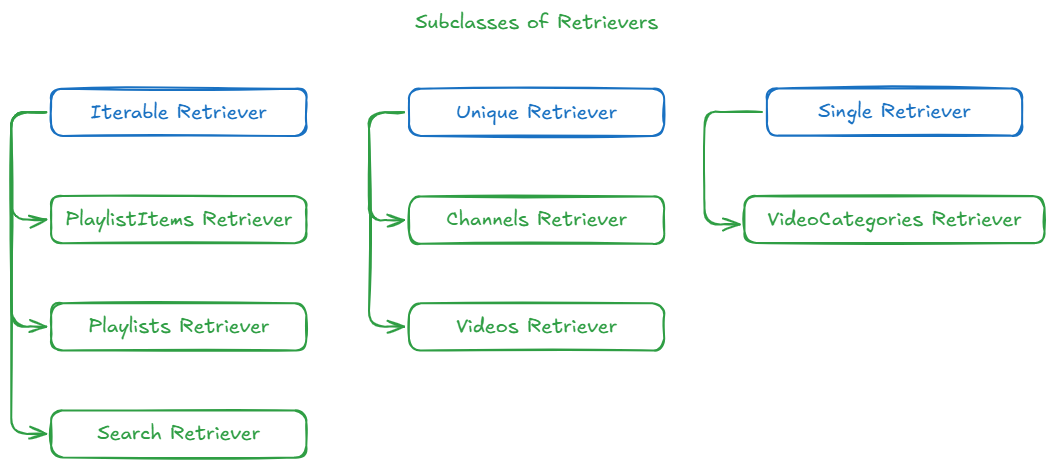
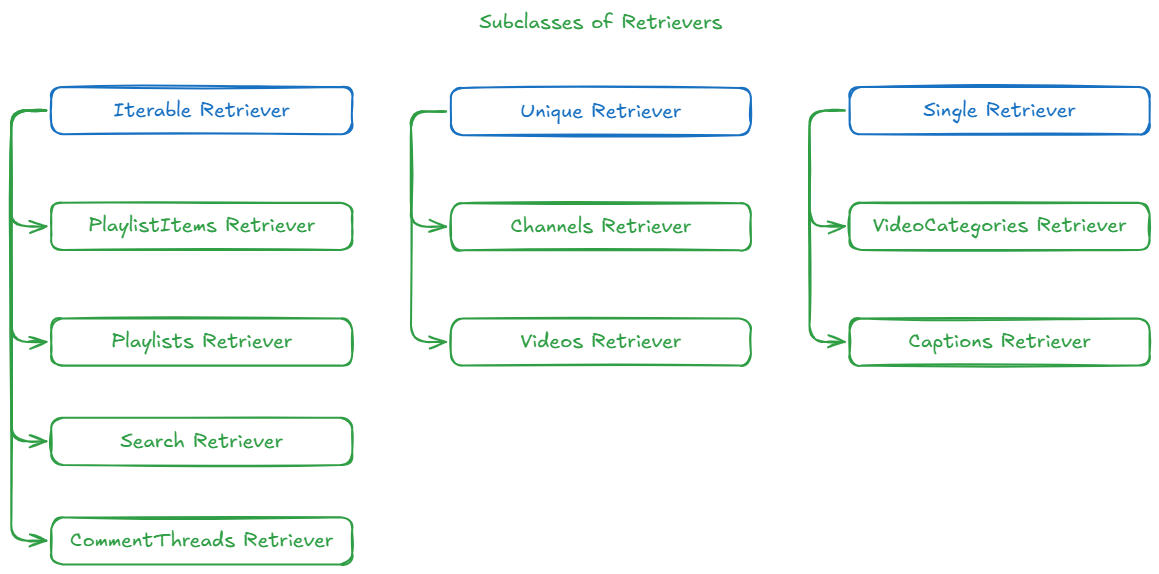
commentThreads endpoint added

diff --git a/youtube_data_api/container/comment_threads/main.py b/youtube_data_api/container/comment_threads/main.py
@@ -1,0 +1,122 @@
+from dataclasses import dataclass, asdict
+from copy import deepcopy
+
+from ..base import ItemThumbnail, BaseContainer
+
+
+@dataclass
+class AuthorChannelId:
+    value: str = None
+
+
+@dataclass
+class CommentSnippet:
+    authorDisplayName: str = None
+    authorProfileImageUrl: str = None
+    authorChannelUrl: str = None
+    authorChannelId: AuthorChannelId = None
+    channelId: str = None
+    videoId: str = None
+    textDisplay: str = None
+    textOriginal: str = None
+    parentId: str = None
+    canRate: bool = None
+    viewerRating: str = None
+    likeCount: int = None
+    moderationStatus: str = None
+    publishedAt: str = None
+    updatedAt: str = None
+
+
+@dataclass
+class CommentItem:
+    kind: str = "youtube#comment"
+    etag: str = None
+    id: str = None
+    snippet: CommentSnippet = None
+
+
+@dataclass
+class CommentThreadsSnippet:
+    channelId: str = None
+    videoId: str = None
+    topLevelComment: CommentItem = None
+    canReply: bool = None
+    totalReplyCount: int = None
+    isPublic: bool = None
+
+
+@dataclass
+class CommentReplies:
+    comments: list[CommentItem] = None
+
+
+@dataclass
+class CommentThreadsItem:
+    kind: str = "youtube#commentThread"
+    etag: str = None
+    id: str = None
+    snippet: CommentThreadsSnippet = None
+    replies: CommentReplies = None
+
+
+@dataclass
+class CommentThreadsContainer(BaseContainer):
+    def __init__(self, raw_items: list[dict]):
+        super().__init__(raw_items)
+        self.raw_items = deepcopy(raw_items)
+        self.items: list | list[CommentThreadsItem] = self._extract_item(self.raw_items)
+            
+    def _extract_item(self, raw_items) -> list | list[CommentThreadsItem]:
+        if len(raw_items) == 0:
+            return list()
+        
+        items = list()
+        for r in raw_items:
+            item = CommentThreadsItem()
+
+            item.etag = r['etag']
+            item.id = r['id']
+
+            item.snippet = self._extract_snippet(deepcopy(r["snippet"]))
+            item.replies = self._extract_replies(deepcopy(r.get("replies")))
+
+            items.append(item)
+
+        return items
+
+    def _extract_snippet(self, raw_snippet: dict) -> CommentThreadsSnippet:
+        top_level_comment_item: dict = raw_snippet.pop("topLevelComment")
+        thread_snippet = CommentThreadsSnippet(**raw_snippet)
+
+        top_level_comment = self._extract_comment(deepcopy(top_level_comment_item))
+
+        thread_snippet.topLevelComment = top_level_comment
+
+        return thread_snippet
+    
+    def _extract_replies(self, raw_replies: dict) -> CommentReplies:
+        if not raw_replies:
+            return None
+        
+        replies = CommentReplies()
+
+        reply_comments: list[CommentItem] = list()
+
+        for raw_comment in raw_replies["comments"]:
+            reply_comments.append(self._extract_comment(deepcopy(raw_comment)))
+
+        replies.comments = reply_comments
+
+        return replies
+
+    def _extract_comment(self, raw_comment: dict) -> CommentItem:
+        comment_snippet_item = raw_comment.pop("snippet")
+        comment = CommentItem(**raw_comment)
+
+        author_channel_id_item: dict = comment_snippet_item.pop("authorChannelId")
+        author_channel_id = AuthorChannelId(author_channel_id_item["value"])
+
+        comment.snippet = CommentSnippet(**comment_snippet_item, authorChannelId=author_channel_id)
+
+        return comment

diff --git a/youtube_data_api/shipper/comment_threads/main.py b/youtube_data_api/shipper/comment_threads/main.py
@@ -1,0 +1,66 @@
+from dataclasses import asdict
+from copy import deepcopy
+
+from youtube_data_api.container.comment_threads.main import CommentThreadsItem
+from ..base import BaseShipper
+
+
+class CommentThreadsShipper(BaseShipper):
+    def __init__(self):
+        super().__init__()
+        self.main_records = None    # comment_threads and replies are used to save data instead
+        self.comment_threads = list[dict] = list()
+        self.replies = dict[str, list] = dict()
+        self.output_folder = "backup/CommentThreadsShipper"
+    
+    def invoke(self, items: list[CommentThreadsItem], output_folder=None, backup=True) -> None:
+        """
+        run the shipper and obtain output
+        """
+        # return super().invoke(items=items, output_folder=output_folder, backup=backup)
+        for item in items:
+            self._extract_details(item)
+            
+        if backup:
+            self._handle_backup(self.comment_threads, suffix=" comment threads", output_folder=output_folder)
+            self._handle_backup(self.replies, suffix=" replies", output_folder=output_folder)
+    
+    def _extract_details(self, item: CommentThreadsItem):
+        record = dict()
+
+        record["kind"] = item.kind
+        record["etag"] = item.etag
+        record["id"] = item.id
+        
+        # 1. extract snippet
+        snippet_item = asdict(item.snippet)
+        top_level_comment_item = snippet_item.pop("topLevelComment")
+
+        record.update(snippet_item)
+
+        record.update(self._extract_comment(deepcopy(top_level_comment_item)))
+
+        self.comment_threads.append(record)
+
+        # 2. extract corresponding replies
+        replies = item.replies
+        if replies:
+            comment_replies = replies.comments
+            comment_replies_items = asdict(comment_replies)
+            # store comment replies of a parent comment id
+            self.replies[item.id] = self._extract_comment_replies(deepcopy(comment_replies_items))
+
+    @staticmethod
+    def _extract_comment(raw_comment_item: dict) -> dict:
+        comment_item = dict()
+
+        author_channel_id_item = raw_comment_item.pop("authorChannelId")
+        comment_item.update(raw_comment_item)
+
+        comment_item["authorChannelId"] = author_channel_id_item["value"]
+
+        return deepcopy(comment_item)
+    
+    def _extract_comment_replies(self, raw_comment_replies: list[dict]) -> list[dict]:
+        comment_replies = [self._extract_comment(rep) for rep in raw_comment_replies]
+        return deepcopy(comment_replies)

diff --git a/youtube_data_api/retriever/comment_threads/main.py b/youtube_data_api/retriever/comment_threads/main.py
@@ -1,0 +1,38 @@
+from ..base import PipeSettings, IterableRetriever
+from .params import CommentThreadsParams
+from .pipe import CommentThreadsPipe
+
+
+class CommentThreadsRetriever(IterableRetriever):
+    """
+    Retrieve comment threads of a specific video
+
+    Attributes
+    ----------
+    pipe_fn : any
+        API to obtain response.
+    pipe : CommentThreadsPipe
+        Pipe to process request by arguments.
+
+    Parameters
+    ----------
+    iterable : list of str
+        A list of video IDs.
+    developerKey : str
+        API key obtained from Google Dev Console.
+    settings : PipeSettings
+        Determines how many pages of response to be obtained.
+    """
+
+    def __init__(self, iterable: list[str], developerKey: str, settings: PipeSettings = PipeSettings()):
+        super().__init__(iterable=iterable, developerKey=developerKey, settings=settings)
+        # these parameters need to be overwritten
+        self.pipe_fn = self.client.commentThreads()
+        self.pipe = CommentThreadsPipe
+    
+    def _create_params(self, i):
+        return CommentThreadsParams(maxResults=100, videoId=i)
+    
+    def invoke(self, output_folder="backup/CommentThreadsRetriever", 
+           filename=None, backup=True) -> list[dict]:
+        return super().invoke(output_folder=output_folder, filename=filename, backup=backup)

diff --git a/youtube_data_api/retriever/base/main.py b/youtube_data_api/retriever/base/main.py
@@ -10,6 +10,10 @@ from .params import BaseParams
 
 
 class IterableRetriever:
+    """
+    - one-to-many retrieval; eg. one channelId to multiple playlists
+    - one API call per query parameter in iterative; eg. one channelId for one playlist API call
+    """
     def __init__(self, iterable: list[str], developerKey: str, settings=PipeSettings()):
         self.iterable = iterable
         self.client = build_client(developerKey)
@@ -61,6 +65,10 @@ class IterableRetriever:
     
 
 class UniqueRetriever:
+    """
+    - one-to-one retrieval; eg. one channelId to one channel details
+    - batch processing for maximizing API call efficiency
+    """
     def __init__(self, iterable: list[str], developerKey: str):
         self.iterable = iterable
         self.chunks = split_list(self.iterable, chunk_size=50)   # split to chunks containing multiple ids
@@ -110,6 +118,10 @@ class UniqueRetriever:
 
 
 class SingleRetriever:
+    """
+    - one-to-one retrieval where only one(group of) item(s) retrieved
+    - eg. one caption resource obtained for one videoId
+    """
     def __init__(self, params: BaseParams, developerKey: str):
         self.params = params
         self.client = build_client(developerKey)

diff --git a/youtube_data_api/foreman/comment_threads/main.py b/youtube_data_api/foreman/comment_threads/main.py
@@ -1,0 +1,21 @@
+from youtube_data_api.retriever import CommentThreadsRetriever
+from youtube_data_api.container import CommentThreadsContainer
+from youtube_data_api.shipper import CommentThreadsShipper
+
+from youtube_data_api.retriever.base import PipeSettings
+from youtube_data_api.foreman.base import IterableForeman
+
+
+class CommentThreadsForeman(IterableForeman):
+    """
+    Retrieve comment threads and replies given videoId
+    """
+    def __init__(self):
+        super().__init__()
+        self.retriever = CommentThreadsRetriever
+        self.container = CommentThreadsContainer
+        self.shipper = CommentThreadsShipper
+    
+    def invoke(self, iterable: list[str], developerKey: str, 
+               settings: PipeSettings = PipeSettings(), backup=True) -> CommentThreadsShipper:
+        return super().invoke(iterable=iterable, developerKey=developerKey, settings=settings, backup=backup)

diff --git a/youtube_data_api/retriever/comment_threads/pipe.py b/youtube_data_api/retriever/comment_threads/pipe.py
@@ -1,0 +1,22 @@
+from typing import TypeAlias, Literal
+from tqdm import tqdm
+import math
+
+from ..base import IterablePipe
+from .params import CommentThreadsParams
+
+RetrieveMethod: TypeAlias = Literal["head", "custom", "all"]
+    
+
+class CommentThreadsPipe(IterablePipe):
+    """
+    obtain list of comment threads given a videoId
+    """
+    def __init__(self, params: CommentThreadsParams, pipe_fn=None, 
+                 retrieval: RetrieveMethod = "head", n=10):
+        super().__init__(params=params, pipe_fn=pipe_fn, retrieval=retrieval, n=n)
+        self.hard_limit = 100    # this API allows up to 100 results per page
+        self.max_page = 5   # limitation for pipe to avoid using too much quota
+    
+    def _get_all_response(self):
+        return super()._get_all_response(max_page=self.max_page)

diff --git a/youtube_data_api/utils.py b/youtube_data_api/utils.py
@@ -20,3 +20,13 @@ def build_client(developerKey):
     client = build('youtube', 'v3', developerKey=developerKey)
     return client
 
+def handle_backup(raw_items: list[dict], output_folder="backup/Backups", filename=None):
+    import os
+
+    if not os.path.exists(output_folder):
+        os.makedirs(output_folder)
+    if not filename:
+        filename = get_current_time() + ".json"
+    records = dict_to_json(raw_items)
+    with open(os.path.join(output_folder, filename), "wb") as f:
+        f.write(records.encode("utf-8"))

diff --git a/youtube_data_api/retriever/comment_threads/params.py b/youtube_data_api/retriever/comment_threads/params.py
@@ -1,0 +1,15 @@
+from dataclasses import dataclass, asdict
+from typing import Optional, Literal, TypeAlias
+
+
+@dataclass
+class CommentThreadsParams:
+    part: str = "id,replies,snippet"
+    videoId: str = None
+    maxResults: int = 20
+    moderationStatus: Literal["heldForReview", "likelySpam", "published"] = "published"
+    order: Literal["time", "relevance"] = "time"
+    pageToken: str = None
+
+    def to_dict(self):
+        return {k:v for k, v in asdict(self).items() if v is not None}

diff --git a/youtube_data_api/retriever/base/pipe.py b/youtube_data_api/retriever/base/pipe.py
@@ -29,7 +29,7 @@ class IterablePipe:
             raise ValueError("Do not implement this object explicitly. Use Retriever instead.")
         
         self.params.pageToken = pageToken
-        self.params.maxResults = 50 if not n else n
+        self.params.maxResults = self.hard_limit if not n else n
 #         print(self.params)
         request = self.pipe_fn.list(**self.params.to_dict())
         response = request.execute()

diff --git a/youtube_data_api/foreman/playlist_items/main.py b/youtube_data_api/foreman/playlist_items/main.py
@@ -5,6 +5,7 @@ from youtube_data_api.shipper import PlaylistItemShipper
 from youtube_data_api.retriever.base import PipeSettings
 from youtube_data_api.foreman.base import IterableForeman
 
+
 class PlaylistItemsForeman(IterableForeman):
     """
     Retrieve playlistItems given a playlistId and convert to 1D dict.

diff --git a/youtube_data_api/container/__init__.py b/youtube_data_api/container/__init__.py
@@ -5,3 +5,4 @@ from .search import SearchContainer
 from .videos import VideosContainer
 from .video_categories import VideoCategoriesContainer
 from .captions import CaptionsContainer
+from .comment_threads import CommentThreadsContainer

diff --git a/youtube_data_api/retriever/__init__.py b/youtube_data_api/retriever/__init__.py
@@ -5,3 +5,4 @@ from .search import SearchRetriever
 from .videos import VideosRetriever
 from .video_categories import VideoCategoriesRetriever
 from .captions import CaptionsRetriever
+from .comment_threads import CommentThreadsRetriever
